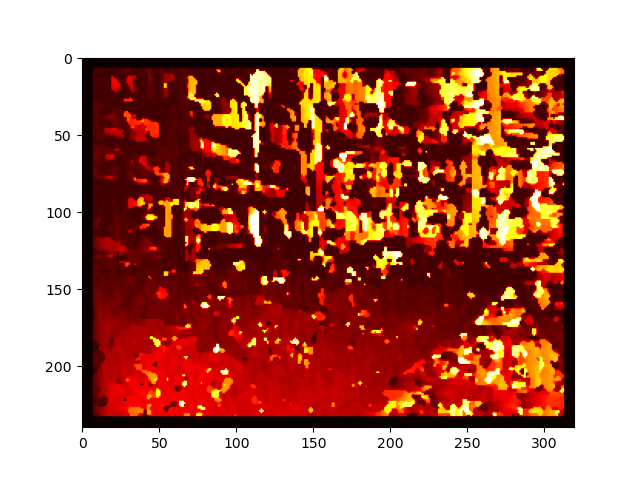
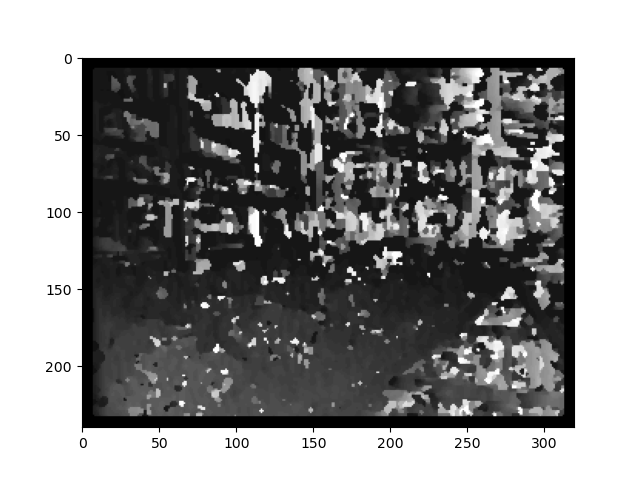
New improvement - SGM

diff --git a/main.py b/main.py
@@ -3,13 +3,14 @@ from sad_disparity import compute_disparity_map_sad
 from ncc_disparity import compute_disparity_map_ncc
 from cost_aggregation_disparity import compute_disparity_map_cost_aggregation
 from weighted_median_filtering import compute_disparity_map_cost_aggregation_weighted_filtering
+from semi_global_matching import compute_disparity_map_semi_global_matching
 import os
 
 
 if __name__ == '__main__':
     parser = argparse.ArgumentParser(description='Disparity Map Calculation with Different Methods')
-    parser.add_argument('--method', type=str, choices=['SAD', 'NCC', 'CostAggregation', 'CostAggregation_WeightedFiltering', 'all'], default='SAD',
-                        help='Choose the disparity map method: SAD, NCC, CostAggregation, CostAggregation_WeightedFiltering or for all')
+    parser.add_argument('--method', type=str, choices=['SAD', 'NCC', 'CostAggregation', 'CostAggregation_WeightedFiltering', 'Semi_global_matching', 'all'], default='SAD',
+                        help='Choose the disparity map method: SAD, NCC, CostAggregation, CostAggregation_WeightedFiltering, Semi_global_matching or for all')
 
     parser.add_argument('--left_image_path', type=str, default='data/corridorl.jpg',
                         help='The path to the left image')
@@ -42,6 +43,8 @@ if __name__ == '__main__':
                 compute_disparity_map_cost_aggregation(args)
             elif args.method == 'CostAggregation_WeightedFiltering':
                 compute_disparity_map_cost_aggregation_weighted_filtering(args)
+            elif args.method == 'Semi_global_matching':
+                compute_disparity_map_semi_global_matching(args)
             elif args.method == 'all':
                 compute_disparity_map_sad(args)
                 compute_disparity_map_ncc(args)
@@ -57,6 +60,8 @@ if __name__ == '__main__':
             compute_disparity_map_cost_aggregation(args)
         elif args.method == 'CostAggregation_WeightedFiltering':
             compute_disparity_map_cost_aggregation_weighted_filtering(args)
+        elif args.method == 'Semi_global_matching':
+            compute_disparity_map_semi_global_matching(args)
         elif args.method == 'all':
             compute_disparity_map_sad(args)
             compute_disparity_map_ncc(args)

diff --git a/semi_global_matching.py b/semi_global_matching.py
@@ -1,0 +1,40 @@
+import cv2
+import numpy as np
+import matplotlib.pyplot as plt
+from tqdm import tqdm
+
+from utils import _read_image_pair
+
+BLOCK_SIZE = 5
+SEARCH_BLOCK_SIZE = 56
+
+def compute_disparity_map_semi_global_matching(args):
+    """
+    The function reads the left image and the right image paths and calculates diparity maps.
+    It essentially picks up a block from left image and iterates through right image to find the best
+    match by calculating NCC between left block and right block
+    """
+    left_array, right_array = _read_image_pair(args.left_image_path, args.right_image_path)
+    left_array = left_array.astype(np.uint8)
+    right_array = right_array.astype(np.uint8)
+    h, w = left_array.shape
+    disparity_map = np.zeros((h, w), dtype=np.float32)
+
+    # stereo = cv2.StereoBM.create(numDisparities = 16, blockSize=BLOCK_SIZE)
+    stereo = cv2.StereoSGBM_create( blockSize=BLOCK_SIZE)
+
+    # Set other parameters
+    # stereo.setPreFilterType(1)  # Median filtering
+    # stereo.setPreFilterSize(5)   # Pre-filter size
+    # stereo.setTextureThreshold(10)
+    # stereo.setUniquenessRatio(15)
+    disparity_map = stereo.compute(left_array, right_array)
+
+    #Normalize and store disparity match
+    disparity_map_normalized = cv2.normalize(disparity_map, None, 0, 255, cv2.NORM_MINMAX)
+    disparity_map_normalized = disparity_map_normalized.astype(np.uint8)
+
+    filename = args.left_image_path[:-5].split('/')[-1]
+    plt.imshow(disparity_map_normalized, cmap='grey')
+    plt.savefig(f'./output/{filename}_disparity_map_sgm2.png')
+    plt.show()

diff --git a/weighted_median_filtering.py b/weighted_median_filtering.py
@@ -104,7 +104,7 @@ def compute_disparity_map_cost_aggregation_weighted_filtering(args):
     median_filtered_disparity_map = apply_weighted_median_filter(disparity_map=disparity_map_normalized, kernel_size=7)
 
     filename = args.left_image_path[:-5].split('/')[-1]
-    plt.imshow(median_filtered_disparity_map, cmap='hot')
+    plt.imshow(median_filtered_disparity_map, cmap='grey')
     plt.savefig(f'./output/{filename}_disparity_map_costagg_weighted._filtering.png')
     plt.show()
 

diff --git a/ncc_disparity.py b/ncc_disparity.py
@@ -59,6 +59,6 @@ def compute_disparity_map_ncc(args):
     disparity_map_normalized = disparity_map_normalized.astype(np.uint8)
 
     filename = args.left_image_path[:-5].split('/')[-1]
-    plt.imshow(disparity_map_normalized, cmap='hot')
+    plt.imshow(disparity_map_normalized, cmap='grey')
     plt.savefig(f'./output/{filename}_disparity_map_ncc.png')
     plt.show()

diff --git a/sad_disparity.py b/sad_disparity.py
@@ -55,6 +55,6 @@ def compute_disparity_map_sad(args):
     disparity_map_normalized = disparity_map_normalized.astype(np.uint8)
 
     filename = args.left_image_path[:-5].split('/')[-1]
-    plt.imshow(disparity_map_normalized, cmap='hot')
+    plt.imshow(disparity_map_normalized, cmap='grey')
     plt.savefig(f'./output/{filename}_disparity_map_sad.png')
     plt.show()
